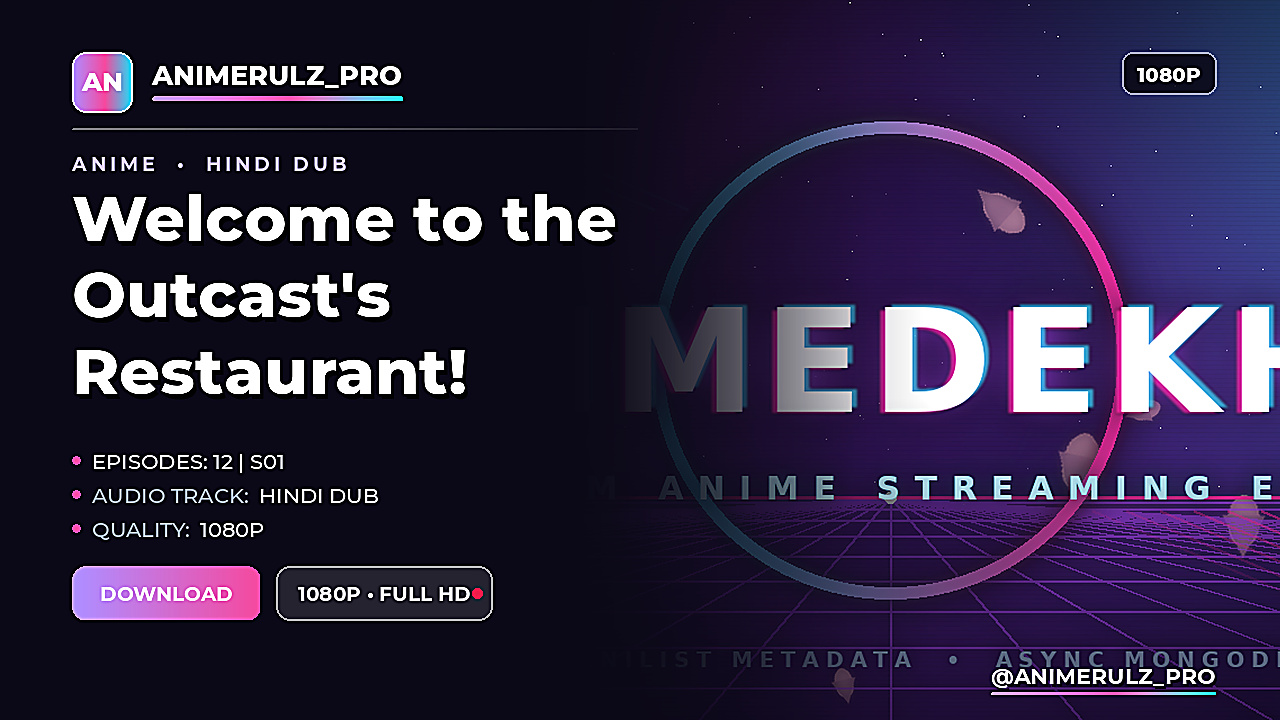
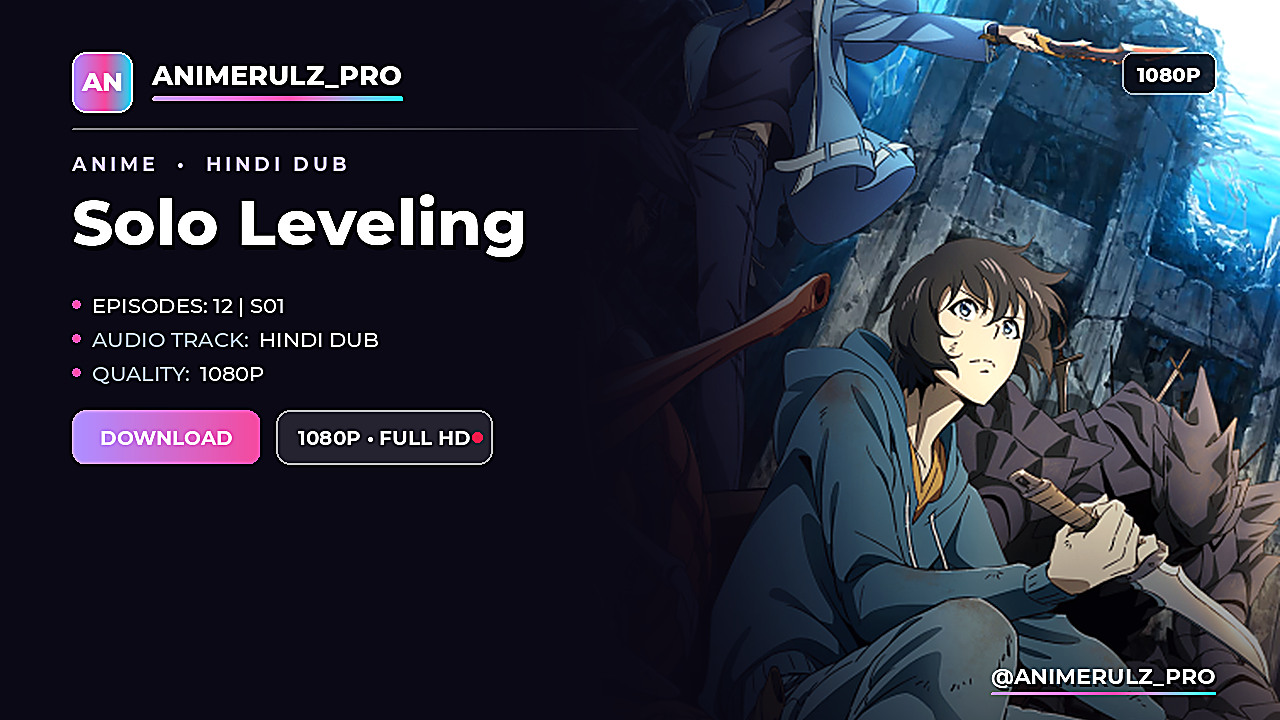
README + bot UI copy: Solo Leveling showcase, streaming-style wording
- assets/thumb_showcase.jpg regenerated with the Solo Leveling key art
  (AniList cover) on the streaming template; README caption names it.
- /start (modern + classic + About/Help/Home callbacks) rewritten: drops the
  leftover file-store blurb, consistent emoji headers, shared caption/markup
  helpers, and a real way back from the About/Help screens.
- /help: consistent section headers and bullet style, adds /source,
  /linkgate, /endsticker, /thumbuser, /thumblogo to the owner block.
- Search card, main menu link button, and worker-bot /start + /help polished
  to match.

diff --git a/bot/handlers/commands.py b/bot/handlers/commands.py
@@ -14,6 +14,44 @@ import bot.logger
 log = logging.getLogger(__name__)
 
 
+def _start_caption(user_mention: str) -> str:
+    """Streaming-style welcome shared by /start and the Home callback."""
+    return (
+        f"🍿 <b>AnimeDekho</b> — {user_mention}\n\n"
+        "<blockquote><b>Your anime, on demand.</b>\n"
+        "Search any title, pick a quality and I'll deliver it — 480p → 4K, "
+        "Hindi-dubbed series &amp; movies, one tidy post per show.</blockquote>"
+    )
+
+
+def _start_markup(main_channel: str):
+    """The three buttons every /start screen shows."""
+    from bot.telegram.types import InlineKeyboardMarkup, InlineKeyboardButton
+    return InlineKeyboardMarkup([
+        [InlineKeyboardButton("⚡ Main Channel ↗", url=main_channel)],
+        [
+            InlineKeyboardButton("✨ About", callback_data="start:about"),
+            InlineKeyboardButton("📖 Help", callback_data="start:help"),
+        ],
+    ])
+
+
+def _screen_markup(main_channel: str):
+    """About / Help screens: a way back to the menu."""
+    from bot.telegram.types import InlineKeyboardMarkup, InlineKeyboardButton
+    return InlineKeyboardMarkup([
+        [InlineKeyboardButton("⚡ Main Channel ↗", url=main_channel)],
+        [InlineKeyboardButton("🔙 Menu", callback_data="start:home")],
+    ])
+
+
+async def _home_channel(db) -> str:
+    """Channel link used by the /start screens (main link → invite → default)."""
+    main_link = await db.get_config("main_channel_link") if db else None
+    invite_link = await db.get_config("channel_invite_link") if db else None
+    return main_link or invite_link or "https://t.me/animedekho"
+
+
 async def cmd_start(client: Client, message: Message):
     user = message.from_user
     user_id = user.id if user else 0
@@ -53,23 +91,12 @@ async def cmd_start(client: Client, message: Message):
     start_style = await db.get_start_style() if db else "modern"
 
     if start_style == "modern":
-        from bot.telegram.types import InlineKeyboardMarkup, InlineKeyboardButton
         first_name = user.first_name if user else "Friend"
         user_mention = f"<a href='tg://user?id={user_id}'>{re.sub(r'[<>&]', '', first_name)}</a>" if user_id else (first_name or "Friend")
 
-        main_chan = await db.get_config("main_channel_link") or invite_link or "https://t.me/animedekho"
-        modern_markup = InlineKeyboardMarkup([
-            [InlineKeyboardButton("• ⚡ MAIN CHANNEL • ↗", url=main_chan)],
-            [
-                InlineKeyboardButton("• ABOUT •", callback_data="start:about"),
-                InlineKeyboardButton("HELP •", callback_data="start:help"),
-            ]
-        ])
-
-        caption = (
-            f"Bᴀᴋᴀᴀᴀ!!!.....{user_mention}\n\n"
-            f"<blockquote><b>I AM FILE STORE + AUTO ANIME BOT, I CAN STORE PRIVATE FILES IN SPECIFIED CHANNEL AND OTHER USERS CAN ACCESS IT FROM SPECIAL LINK.</b></blockquote>"
-        )
+        main_chan = await _home_channel(db)
+        modern_markup = _start_markup(main_chan)
+        caption = _start_caption(user_mention)
 
         start_pic = await db.get_start_pic() if db else None
         # Default stylish banner fallback if user has not set a custom start picture
@@ -97,10 +124,10 @@ async def cmd_start(client: Client, message: Message):
 
     welcome_text = (
         "🎌 <b>AnimeDekho Bot</b>\n\n"
-        "Stream Hindi dubbed anime!\n\n"
-        f"• {tv_emoji} <b>Series</b> — browse recent series\n"
-        "• 📂 <b>Genres</b> — filter by genre\n\n"
-        "Just type any anime name to search!"
+        "Stream Hindi-dubbed anime on demand.\n\n"
+        f"• {tv_emoji} <b>Recent Series</b> — what just dropped\n"
+        "• 📂 <b>Browse Genres</b> — pick a mood\n\n"
+        "Type any anime name and I'll find it for you."
     )
 
     markup = main_menu(invite_link=invite_link)
@@ -116,65 +143,54 @@ async def start_callback(client: Client, query):
     """Handle modern start menu callbacks (About, Help, Home)."""
     data = query.data
     from bot.database import db
-    from bot.telegram.types import InlineKeyboardMarkup, InlineKeyboardButton
 
     if data == "start:about":
         text = (
-            "✨ <b>ABOUT ANIME DEKHO BOT</b> ✨\n\n"
-            "<blockquote><b>🤖 Name:</b> AnimeDekho Bot\n"
-            "<b>⚡ Version:</b> 2.5 Modern\n"
-            "<b>🐍 Framework:</b> Wzgram / Pyrogram\n"
-            "<b>📦 Engine:</b> Multi-Audio HLS / DASH\n"
-            "<b>🚀 Features:</b>\n"
-            "• Channel Auto-Mapping &amp; Dedicated Channels\n"
-            "• Auto Episode Monitor &amp; Airing Schedules\n"
-            "• Anti-Copyright 2-Min Invite Links &amp; Auto-Delete\n"
-            "• Dump Cache Channel &amp; Custom Thumbnails</blockquote>\n\n"
-            "<i>Click below to return to the main menu.</i>"
+            "🍿 <b>ABOUT ANIMEDEKHO</b> 🍿\n\n"
+            "<blockquote><b>🤖 Bot:</b> AnimeDekho\n"
+            "<b>⚡ Engine:</b> V3 streaming · multi-audio HLS / DASH\n"
+            "<b>🐍 Framework:</b> WZGram / Pyrogram\n\n"
+            "<b>🎬 Watch</b>\n"
+            "• Netflix-style auto thumbnail on every upload\n"
+            "• 480p → 720p → 1080p → 4K, Hindi dub first\n"
+            "• One master post per anime, updated in place\n\n"
+            "<b>⚙ Automate</b>\n"
+            "• Auto episode monitor &amp; airing schedules\n"
+            "• Channel auto-mapping &amp; dedicated channels\n"
+            "• Anti-copyright 2-minute invite links &amp; auto-delete\n"
+            "• Optional DOWNLOAD gate behind a second channel</blockquote>\n\n"
+            "<i>Tap below to go back to the menu.</i>"
         )
-        markup = InlineKeyboardMarkup([[InlineKeyboardButton("◀ Back", callback_data="start:home")]])
+        markup = _screen_markup(await _home_channel(db))
     elif data == "start:help":
         text = (
-            "📖 <b>HELP & COMMANDS GUIDE</b> 📖\n\n"
-            "<blockquote><b>User Commands:</b>\n"
-            "• /start — Open start menu\n"
-            "• /search &lt;anime&gt; — Search anime series &amp; movies\n"
-            "• /schedule — View today's anime release schedule\n"
-            "• /help — Show help information\n\n"
-            "<b>Admin / Owner Commands:</b>\n"
-            "• /automonitor — Toggle automated episode downloader\n"
-            "• /mapchannel — Route anime uploads to dedicated channel\n"
-            "• /startstyle — Switch /start UI (classic / modern)\n"
-            "• /schedstyle — Switch /schedule UI (classic / modern)\n"
-            "• /epstyle — Switch episode upload post UI (classic / modern)\n"
-            "• /poststyle — Switch channel album card UI (classic / modern)\n"
-            "• /setthumb — Configure custom thumbnails\n"
-            "• /thumbuser — Handle stamped on thumbnails\n"
-            "• /thumblogo — PNG logo in the thumbnail lockup\n"
-            "• /linkgate — Gate the channel post DOWNLOAD button\n"
+            "📖 <b>HELP &amp; COMMANDS</b> 📖\n\n"
+            "<blockquote><b>🧭 Everyday</b>\n"
+            "• /start — Open the menu\n"
+            "• /search &lt;anime&gt; — Search series &amp; movies\n"
+            "• /schedule — Today's release schedule\n"
+            "• /help — This guide\n\n"
+            "<b>🎛 Owner &amp; Admin</b>\n"
+            "• /settings — Interactive control panel\n"
+            "• /commands — Categorized command catalog\n"
+            "• /source — Switch the default download source\n"
+            "• /automonitor — Auto-download new episodes\n"
+            "• /mapchannel — Route a series to its own channel\n"
+            "• /linkgate — Gate the post's DOWNLOAD button\n"
             "• /endsticker — END OF SEASON sticker\n"
+            "• /thumbuser · /thumblogo — Thumbnail branding\n"
+            "• /startpic · /setthumb — Banner &amp; file art\n"
             "• /setdump — Configure dump storage channel</blockquote>\n\n"
-            "<i>Click below to return to the main menu.</i>"
+            "<i>Tap below to go back to the menu.</i>"
         )
-        markup = InlineKeyboardMarkup([[InlineKeyboardButton("◀ Back", callback_data="start:home")]])
+        markup = _screen_markup(await _home_channel(db))
     else:  # start:home
         user = query.from_user
         user_id = user.id if user else 0
         first_name = user.first_name if user else "Friend"
         user_mention = f"<a href='tg://user?id={user_id}'>{re.sub(r'[<>&]', '', first_name)}</a>" if user_id else (first_name or "Friend")
-        invite_link = await db.get_config("channel_invite_link") if db else None
-        main_chan = (await db.get_config("main_channel_link") if db else None) or invite_link or "https://t.me/animedekho"
-        markup = InlineKeyboardMarkup([
-            [InlineKeyboardButton("• ⚡ MAIN CHANNEL • ↗", url=main_chan)],
-            [
-                InlineKeyboardButton("• ABOUT •", callback_data="start:about"),
-                InlineKeyboardButton("HELP •", callback_data="start:help"),
-            ]
-        ])
-        text = (
-            f"Bᴀᴋᴀᴀᴀ!!!.....{user_mention}\n\n"
-            f"<blockquote><b>I AM FILE STORE + AUTO ANIME BOT, I CAN STORE PRIVATE FILES IN SPECIFIED CHANNEL AND OTHER USERS CAN ACCESS IT FROM SPECIAL LINK.</b></blockquote>"
-        )
+        markup = _start_markup(await _home_channel(db))
+        text = _start_caption(user_mention)
 
     try:
         if query.message.photo:
@@ -194,40 +210,37 @@ async def cmd_help(client: Client, message: Message):
     from config.settings import settings
     is_owner_user = message.from_user and message.from_user.id == settings.bot.owner_id
     owner_help = (
-        "\n\n<b>Owner & Admin Commands:</b>\n"
-        "• <b>/settings</b> — Interactive control panel & live toggles\n"
-        "• <b>/commands</b> — Interactive categorized commands guide\n"
-        "/stats — View real-time VPS stats and net speed\n"
-        "/health — System health & bot diagnostics\n"
-        "/users — View total network users\n"
-        "/broadcast — Broadcast text message\n"
-        "/pbroadcast — Broadcast photo\n"
-        "/dbroadcast — Broadcast video/doc\n"
-        "/ban &lt;id&gt; — Ban a user\n"
-        "/uban &lt;id&gt; — Unban a user\n"
-        "/fsub — Manage Force Subscribe channel\n"
-        "/fsub_mod — Toggle FSub 2-min timer link mode\n"
-        "/dlt_time — Set file/video auto-delete timer\n"
-        "/startstyle — Switch /start menu style (classic/modern)\n"
-        "/schedstyle — Switch /schedule style (classic/modern)\n"
-        "/epstyle — Switch episode post style (classic/modern)\n"
-        "/poststyle — Switch channel card style (classic/modern)\n"
-        "/startpic — Set custom banner for /start\n"
-        "/tutorial — Full system guide\n"
-        "/ai &lt;query&gt; — Chat with Autonomous AI Agent\n"
-        "/setai — View & change AI model/provider\n"
-        "/addbot — Add child worker bot\n"
-        "/delete — Delete a series or file"
+        "\n\n<b>🎛 Owner &amp; Admin Commands</b>\n"
+        "• <b>/settings</b> — Interactive control panel &amp; live toggles\n"
+        "• <b>/commands</b> — Interactive categorized command guide\n"
+        "• /stats — Real-time VPS stats &amp; network speed\n"
+        "• /health — System health &amp; bot diagnostics\n"
+        "• /users — Total registered users\n"
+        "• /broadcast · /pbroadcast · /dbroadcast — Announce to everyone\n"
+        "• /ban &lt;id&gt; · /uban &lt;id&gt; — Ban or unban a user\n"
+        "• /fsub · /fsub_mod · /dlt_time — Force-subscribe &amp; auto-delete timers\n"
+        "• /startstyle · /schedstyle · /epstyle · /poststyle — UI styles\n"
+        "• /startpic — Custom banner for /start\n"
+        "• /source — Show or change the default download source\n"
+        "• /linkgate · /endsticker — Channel post extras (gate + sticker)\n"
+        "• /thumbuser · /thumblogo — Thumbnail branding\n"
+        "• /setdump — Dump storage channel\n"
+        "• /tutorial — Full system guide\n"
+        "• /ai &lt;query&gt; — Chat with the autonomous AI agent\n"
+        "• /setai — View &amp; change AI model/provider\n"
+        "• /addbot — Add a child worker bot\n"
+        "• /delete — Delete a series or file"
     ) if is_owner_user else ""
 
     await message.reply_text(
-        "📖 <b>Commands</b>\n\n"
-        "/start — Main menu\n"
-        "/search &lt;name&gt; — Search anime or movies\n"
-        "/schedule — Anime airing schedule\n"
-        "/commands — Interactive categorized commands guide\n"
-        "/help — This message\n\n"
-        "Just type any anime name in chat to search!"
+        "📖 <b>AnimeDekho — Help</b>\n\n"
+        "<b>🧭 Everyday</b>\n"
+        "• /start — Main menu\n"
+        "• /search &lt;name&gt; — Search anime or movies\n"
+        "• /schedule — Today's airing schedule\n"
+        "• /commands — Interactive categorized guide\n"
+        "• /help — This message\n\n"
+        "💡 <i>Just type any anime name in chat to search!</i>"
         f"{owner_help}",
         parse_mode=enums.ParseMode.HTML,
     )

diff --git a/bot/child_bots.py b/bot/child_bots.py
@@ -314,15 +314,15 @@ class ChildBotManager:
                     main_user = f"@{library_manager.bot_username}"
 
             welcome = (
-                f"🤖 <b>AnimeDekho Worker Bot</b> (@{username})\n\n"
-                f"⚡ <b>Assigned Tier:</b> <code>{quality.upper()}</code>\n"
-                f"📥 I deliver requested anime episodes and movies directly to you with maximum download speed.\n\n"
-                f"🔍 <b>To search and browse all anime, use our Main Bot:</b>\n"
+                f"🤖 <b>AnimeDekho Delivery Bot</b> (@{username})\n\n"
+                f"⚡ <b>Assigned tier:</b> <code>{quality.upper()}</code>\n"
+                f"📥 I push the episode or movie you request straight to this chat, at full speed.\n\n"
+                f"🔎 <b>Browse the whole catalogue in the main bot:</b>\n"
                 f"👉 {main_user or 'Main Controller Bot'}"
             )
             buttons = []
             if main_user:
-                buttons.append([InlineKeyboardButton("🚀 Go to Main Bot", url=f"https://t.me/{main_user.lstrip('@')}")])
+                buttons.append([InlineKeyboardButton("🚀 Open Main Bot ↗", url=f"https://t.me/{main_user.lstrip('@')}")])
             await m.reply_text(welcome, parse_mode=enums.ParseMode.HTML, reply_markup=InlineKeyboardMarkup(buttons) if buttons else None)
 
         @client.on_message(filters.command("help") & filters.private)
@@ -332,13 +332,13 @@ class ChildBotManager:
                 main_user = f"@{self.main_client.me.username}"
 
             await m.reply_text(
-                f"📖 <b>Worker Bot Help</b>\n\n"
-                f"This bot is an automated file delivery worker for {main_user}.\n"
-                f"Click on any episode or quality button in our channel or main bot to download.\n\n"
+                f"📖 <b>Delivery Bot Help</b>\n\n"
+                f"I'm the delivery worker for {main_user or 'the main bot'} — I push the files you pick.\n"
+                f"Tap any episode or quality button in the channel or main bot and I'll send it here.\n\n"
                 "<b>Commands:</b>\n"
-                "/start — Start bot\n"
-                "/help — View help\n"
-                "/tutorial — How it works",
+                "• /start — Open the menu\n"
+                "• /help — This message\n"
+                "• /tutorial — How the network works",
                 parse_mode=enums.ParseMode.HTML,
             )
 

diff --git a/bot/handlers/messages.py b/bot/handlers/messages.py
@@ -47,7 +47,7 @@ async def handle_text(client: Client, message: Message):
 async def do_search(client: Client, message: Message, query: str):
     """Execute anime search and display result buttons."""
     user = message.from_user
-    msg = await message.reply_text("🔍 Searching...")
+    msg = await message.reply_text("🔍 Searching the library…")
 
     # Log the search
     if bot.logger.bot_logger and user:
@@ -57,9 +57,9 @@ async def do_search(client: Client, message: Message, query: str):
         results = await api.search(query)
         if not results:
             try:
-                await msg.edit_text("❌ No results found. Try a different name.")
+                await msg.edit_text("🚫 No results — try another spelling or the original title.")
             except Exception:
-                await message.reply_text("❌ No results found. Try a different name.")
+                await message.reply_text("🚫 No results — try another spelling or the original title.")
             return
 
         diag_prefix = ""
@@ -73,7 +73,10 @@ async def do_search(client: Client, message: Message, query: str):
             diag_str = ", ".join(f"{k}: {v}" for k, v in src_counts.items())
             diag_prefix = f"🛠 <b>[Admin Diagnostics]</b> <i>{diag_str}</i>\n\n"
 
-        search_header = f"{diag_prefix}🔍 <b>Results for:</b> {esc(query)}\n\nSelect one:"
+        search_header = (
+            f"{diag_prefix}🔍 <b>Results for:</b> {esc(query)}\n\n"
+            "🎯 <i>Tap a title to open it:</i>"
+        )
 
         try:
             await msg.edit_text(

diff --git a/bot/keyboards.py b/bot/keyboards.py
@@ -34,7 +34,7 @@ def main_menu(invite_link: str | None = None) -> InlineKeyboardMarkup:
         [InlineKeyboardButton("📂 Browse Genres", callback_data="m:genres")],
     ]
     if invite_link:
-        buttons.append([InlineKeyboardButton("📢 Join Our Channel", url=invite_link)])
+        buttons.append([InlineKeyboardButton("📢 Join the Channel ↗", url=invite_link)])
     return InlineKeyboardMarkup(buttons)
 
 

diff --git a/README.md b/README.md
@@ -126,9 +126,9 @@ Set your own branding (owner-only):
 
 <div align="center">
 
-<img src="assets/thumb_showcase.jpg" alt="Streaming Card thumbnail preview" width="75%">
+<img src="assets/thumb_showcase.jpg" alt="Solo Leveling — streaming card thumbnail preview" width="75%">
 
-<p><sub><code>streaming</code> template · auto-generated at 1280×720 for every upload</sub></p>
+<p><sub><b>Example:</b> <i>Solo Leveling</i> · <code>streaming</code> template · auto-generated at 1280×720 for every upload</sub></p>
 
 </div>
 
